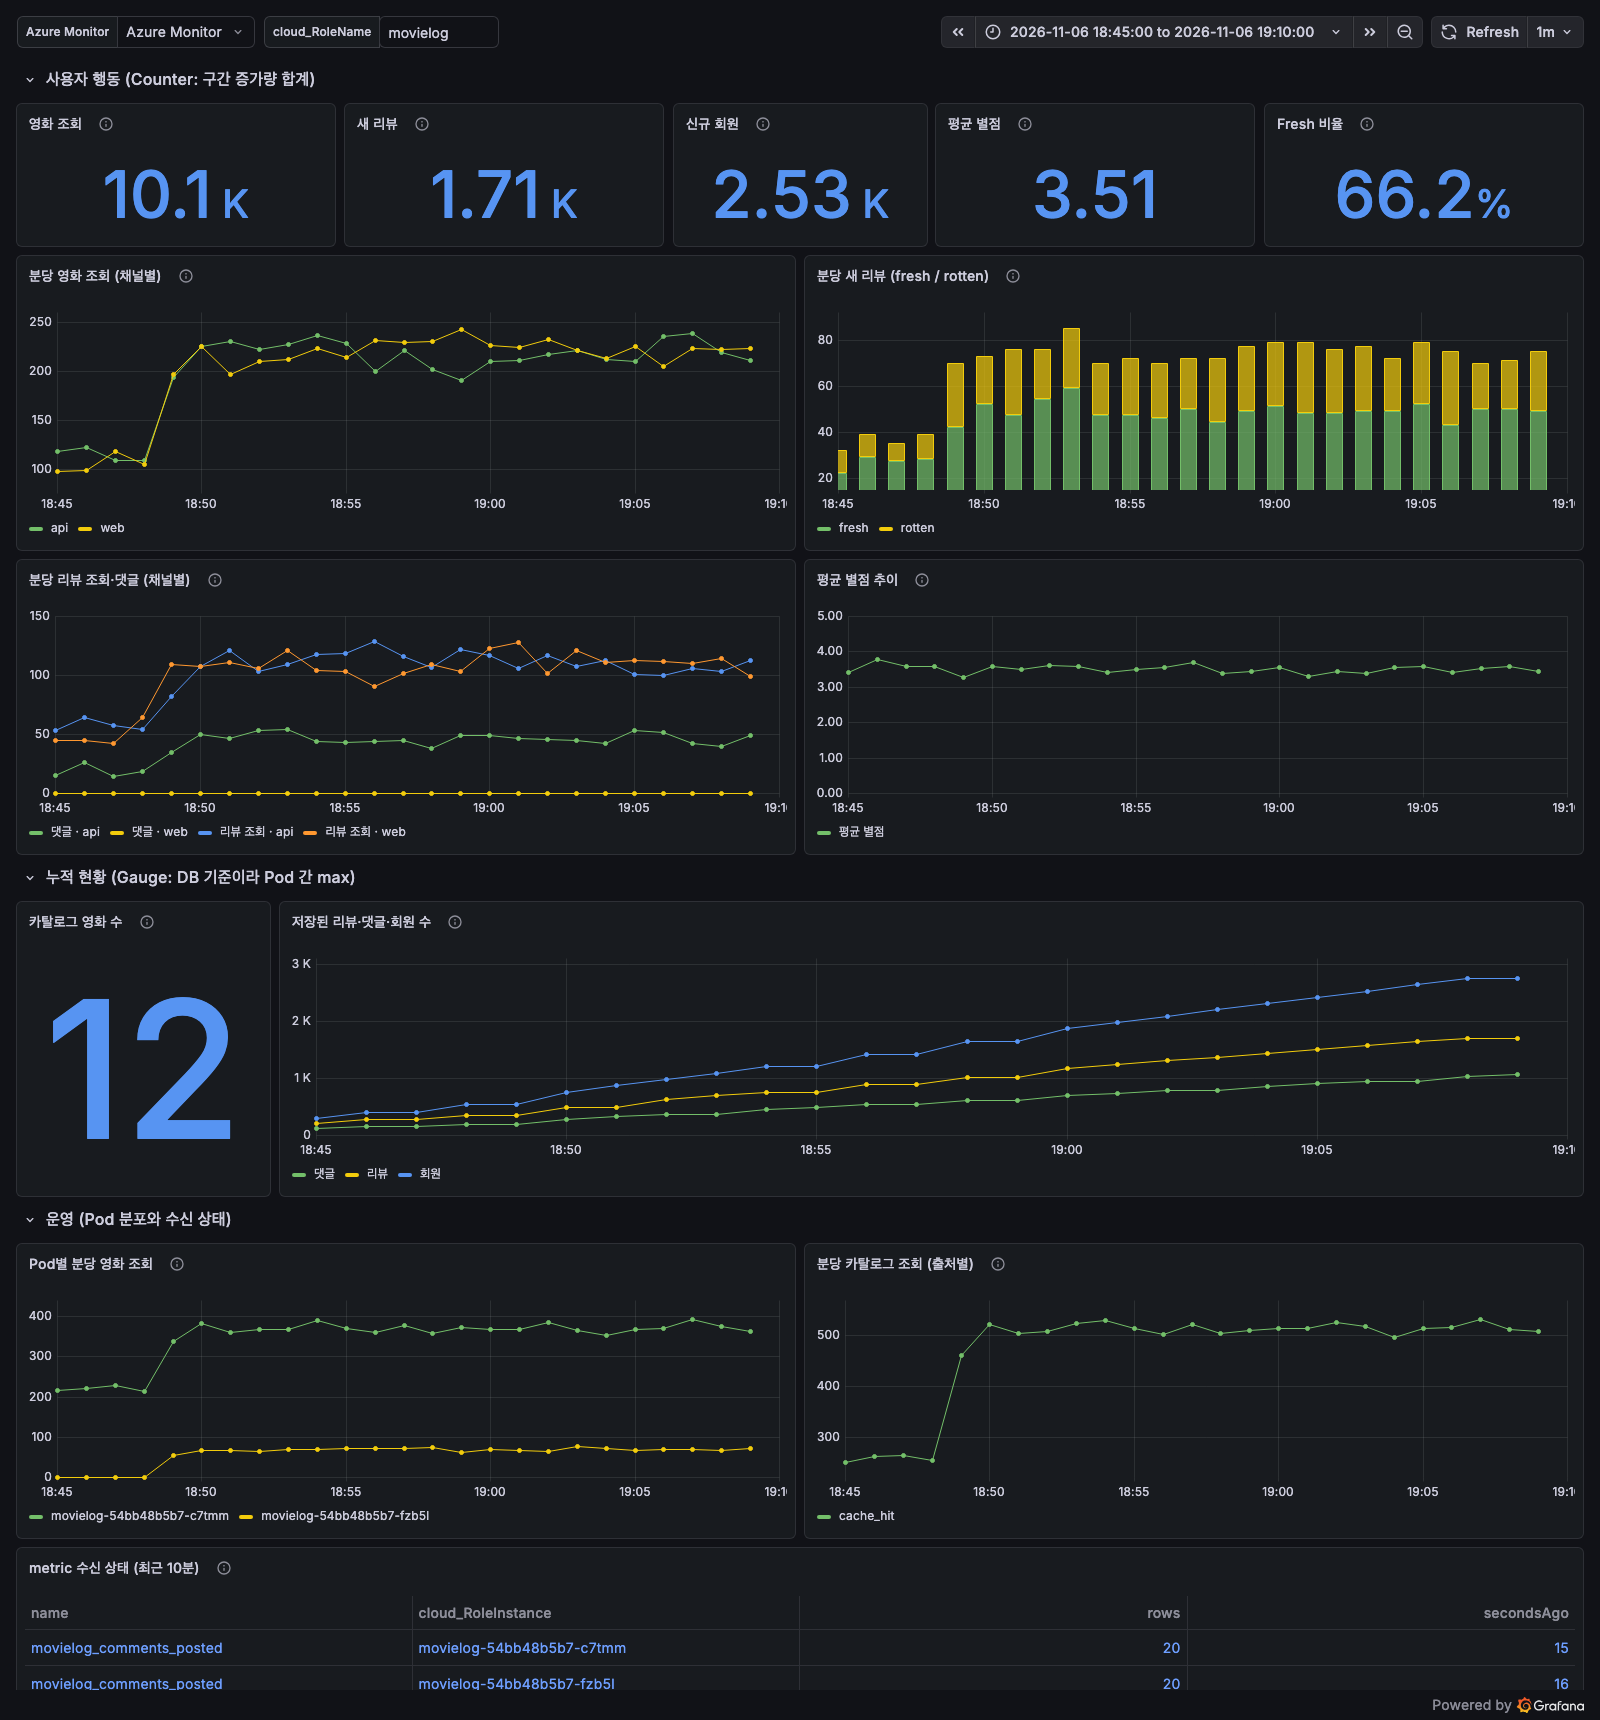
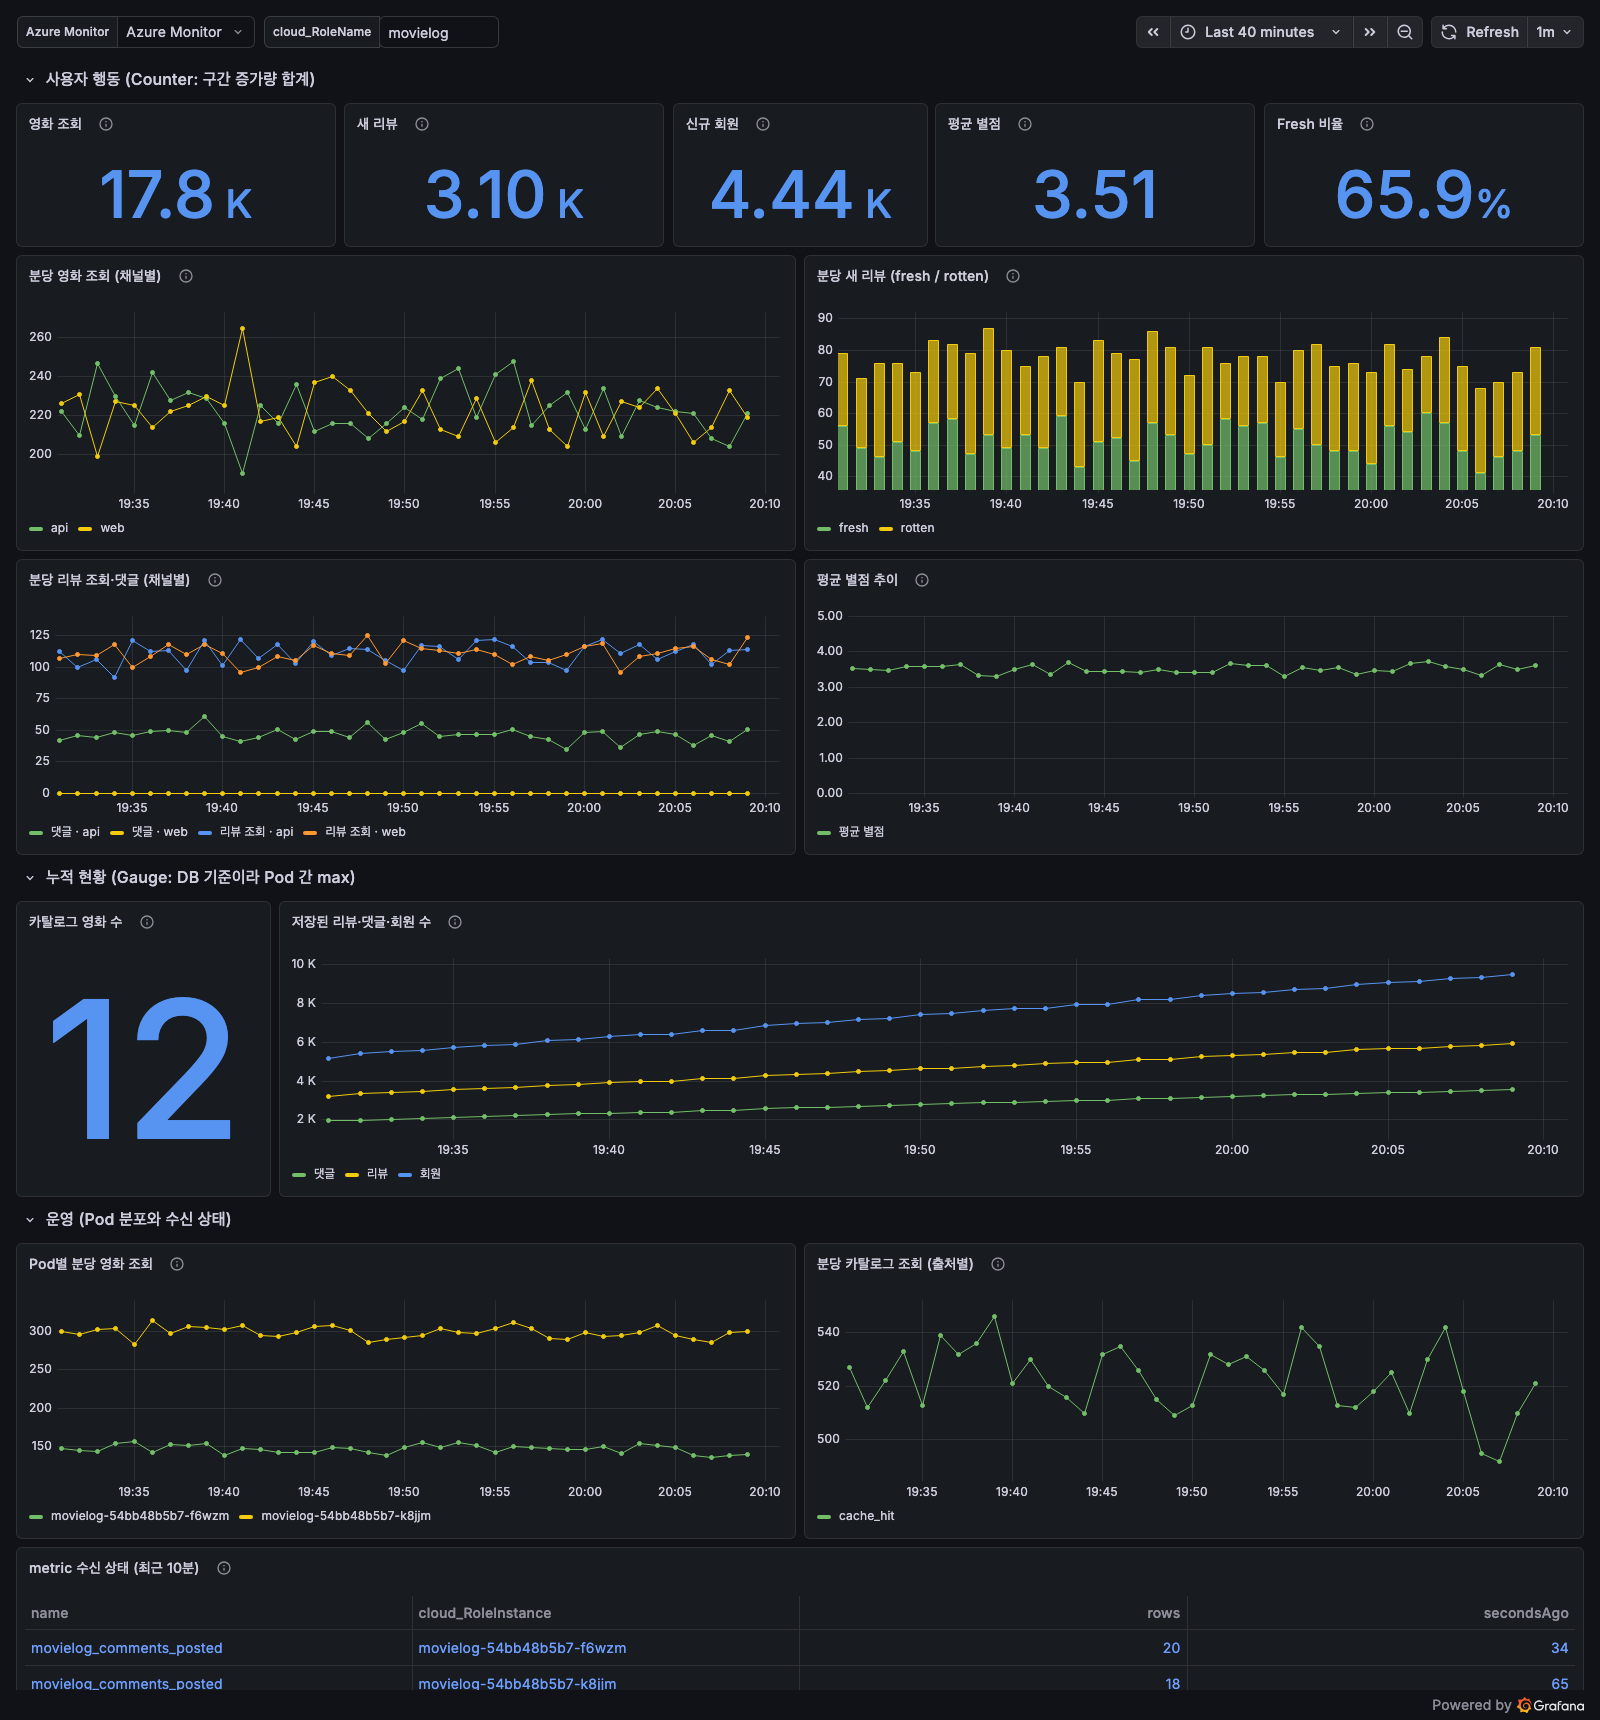
docs(monitor): 리뷰 1차 반영 - rollout 대기, 복귀 replica, token 범위, 미완성 bin 제외
- custom agent 전환 두 patch 사이와 뒤에 rollout status를 두고 Pod별 agent 로그를 확인
- kubectl replace 복귀 뒤 replicas를 2로 복원
- verify_panels.py 경로를 sample 루트 기준으로 수정
- capture.mjs가 Entra token을 Grafana origin 요청에만 붙이고 환경 변수 누락 시 종료 (실측에서 js.monitor.azure.com 요청 확인)
- 시계열 panel에서 채워지는 중인 현재 bin을 제외하고 대시보드 캡처 갱신

diff --git a/docs/services/azure-monitor/aks-spring-boot-micrometer-grafana/samples/movielog-app/agent/build_dashboard.py b/docs/services/azure-monitor/aks-spring-boot-micrometer-grafana/samples/movielog-app/agent/build_dashboard.py
@@ -15,6 +15,8 @@ import json
 DS = {"type": "grafana-azure-monitor-datasource", "uid": "${datasource}"}
 STEP = "max_of($__interval, 1m)"
 PER_MIN = f"({STEP} / 1m)"
+# The current bin is still filling, so drop it to avoid a false dip at the right edge.
+COMPLETE = f"| where timestamp < bin(now(), {STEP})\n"
 
 
 def base(metric):
@@ -108,13 +110,13 @@ def build(appinsights_id):
     lay.add("timeseries", "분당 영화 조회 (채널별)", "bin마다 증가량을 더한 뒤 분당 값으로 환산합니다.",
             base("movielog_movie_views")
             + "| extend channel = tostring(customDimensions.channel)\n"
-              f"| summarize perMin = sum(value) / {PER_MIN} by bin(timestamp, {STEP}), channel\n"
+              + COMPLETE + f"| summarize perMin = sum(value) / {PER_MIN} by bin(timestamp, {STEP}), channel\n"
               "| order by timestamp asc",
             "short", 0, 12, 8, "time_series", options=LINES, label="channel")
     lay.add("timeseries", "분당 새 리뷰 (fresh / rotten)", "verdict dimension으로 나눈 리뷰 작성량입니다.",
             base("movielog_reviews_posted")
             + "| extend verdict = tostring(customDimensions.verdict)\n"
-              f"| summarize perMin = sum(value) / {PER_MIN} by bin(timestamp, {STEP}), verdict\n"
+              + COMPLETE + f"| summarize perMin = sum(value) / {PER_MIN} by bin(timestamp, {STEP}), verdict\n"
               "| order by timestamp asc",
             "short", 12, 12, 8, "time_series", defaults={"custom": BARS}, options=LINES, label="verdict")
     lay.newline(8)
@@ -126,12 +128,12 @@ def build(appinsights_id):
             '| where name in ("movielog_review_views", "movielog_comments_posted")\n'
             '| extend series = strcat(iff(name == "movielog_review_views", "리뷰 조회", "댓글"), " · ",\n'
             "                         tostring(customDimensions.channel))\n"
-            f"| summarize perMin = sum(value) / {PER_MIN} by bin(timestamp, {STEP}), series\n"
+            + COMPLETE + f"| summarize perMin = sum(value) / {PER_MIN} by bin(timestamp, {STEP}), series\n"
             "| order by timestamp asc",
             "short", 0, 12, 8, "time_series", options=LINES, label="series")
     lay.add("timeseries", "평균 별점 추이", "bin마다 sum(valueSum) / sum(valueCount)로 가중 평균을 계산합니다.",
             base("movielog_review_rating")
-            + f"| summarize stars = sum(valueSum) / sum(valueCount) by bin(timestamp, {STEP})\n"
+            + COMPLETE + f"| summarize stars = sum(valueSum) / sum(valueCount) by bin(timestamp, {STEP})\n"
               "| order by timestamp asc",
             "none", 12, 12, 8, "time_series", defaults={"decimals": 2, "min": 0, "max": 5, "displayName": "평균 별점"},
             options=LINES)
@@ -149,7 +151,7 @@ def build(appinsights_id):
             '| where name in ("movielog_reviews_stored", "movielog_comments_stored", "movielog_members_stored")\n'
             '| extend series = case(name == "movielog_reviews_stored", "리뷰",\n'
             '                       name == "movielog_comments_stored", "댓글", "회원")\n'
-            f"| summarize stored = max(value) by bin(timestamp, {STEP}), series\n"
+            + COMPLETE + f"| summarize stored = max(value) by bin(timestamp, {STEP}), series\n"
             "| order by timestamp asc",
             "short", 4, 20, 8, "time_series", options=LINES, label="series")
     lay.newline(8)
@@ -157,13 +159,13 @@ def build(appinsights_id):
     lay.row("운영 (Pod 분포와 수신 상태)")
     lay.add("timeseries", "Pod별 분당 영화 조회", "cloud_RoleInstance로 나눠 트래픽이 한 Pod에 몰리는지 봅니다.",
             base("movielog_movie_views")
-            + f"| summarize perMin = sum(value) / {PER_MIN} by bin(timestamp, {STEP}), cloud_RoleInstance\n"
+            + COMPLETE + f"| summarize perMin = sum(value) / {PER_MIN} by bin(timestamp, {STEP}), cloud_RoleInstance\n"
               "| order by timestamp asc",
             "short", 0, 12, 8, "time_series", options=LINES, label="cloud_RoleInstance")
     lay.add("timeseries", "분당 카탈로그 조회 (출처별)", "TMDB 키 없이 seed 데이터만 쓰면 cache_hit만 나타납니다.",
             base("movielog_movie_catalog_lookups")
             + "| extend outcome = tostring(customDimensions.outcome)\n"
-              f"| summarize perMin = sum(value) / {PER_MIN} by bin(timestamp, {STEP}), outcome\n"
+              + COMPLETE + f"| summarize perMin = sum(value) / {PER_MIN} by bin(timestamp, {STEP}), outcome\n"
               "| order by timestamp asc",
             "short", 12, 12, 8, "time_series", options=LINES, label="outcome")
     lay.newline(8)

diff --git a/docs/services/azure-monitor/aks-spring-boot-micrometer-grafana/index.md b/docs/services/azure-monitor/aks-spring-boot-micrometer-grafana/index.md
@@ -241,14 +241,18 @@ kubectl create secret generic appinsights -n movielog \
 # 1) webhook이 이전 주입분을 걷어내도록 annotation만 먼저 끕니다.
 kubectl patch deployment movielog -n movielog --type merge -p \
   '{"spec":{"template":{"metadata":{"annotations":{"instrumentation.opentelemetry.io/inject-java":"false"}}}}}'
+kubectl rollout status deploy/movielog -n movielog
 # 2) 정리된 Deployment에 3.7.10 init image와 agent 환경 변수를 넣습니다.
 envsubst < k8s/21-agent-3.7.10.patch.yaml > /tmp/agent-patch.yaml
 kubectl patch deployment movielog -n movielog --type strategic --patch-file /tmp/agent-patch.yaml
-kubectl logs deploy/movielog -n movielog -c movielog | grep "Agent .* started"
+kubectl rollout status deploy/movielog -n movielog
+# Pod마다 시작한 agent 버전을 확인합니다.
+kubectl logs -n movielog -l app=movielog -c movielog --tail=-1 --prefix | grep "Agent .* started"
 ```
 
 ```text
-Application Insights Java Agent 3.7.10 started successfully (PID 1, JVM running for 4.568 s)
+[pod/movielog-54bb48b5b7-f6wzm/movielog] ... Application Insights Java Agent 3.7.10 started successfully
+[pod/movielog-54bb48b5b7-k8jjm/movielog] ... Application Insights Java Agent 3.7.10 started successfully
 ```
 
 ### 이미 주입된 Deployment를 한 번에 바꾸면 webhook이 agent 설정을 지웁니다 { #webhook-revert }
@@ -274,6 +278,8 @@ patch로 넣으면 유지됩니다. 처음부터 custom agent로 배포한다면
 
 ```bash
 envsubst < k8s/20-movielog.yaml | kubectl replace -f -
+# replace는 manifest의 replicas: 1로 되돌리므로 다시 늘립니다.
+kubectl scale deploy/movielog -n movielog --replicas=2
 ```
 
 ## agent에게는 probe → build → verify → look 순서로 대시보드를 시킵니다 { #agent-method }
@@ -402,6 +408,7 @@ customMetrics
 | where name in ("movielog_reviews_stored", "movielog_comments_stored", "movielog_members_stored")
 | extend series = case(name == "movielog_reviews_stored", "리뷰",
                        name == "movielog_comments_stored", "댓글", "회원")
+| where timestamp < bin(now(), max_of($__interval, 1m))   // 채워지는 중인 현재 bin 제외
 | summarize stored = max(value) by bin(timestamp, max_of($__interval, 1m)), series
 | order by timestamp asc
 ```
@@ -416,7 +423,7 @@ Grafana Viewer 이상 역할이 필요합니다.
 ```bash
 export GRAFANA_URL="$(az grafana show -g $RG -n <grafana-name> --query properties.endpoint -o tsv)"
 export GRAFANA_TOKEN="$(az account get-access-token --resource https://dashboard.azure.com --query accessToken -o tsv)"
-python3 verify_panels.py ../grafana/movielog-dashboard.json --appinsights-id "<app-insights-resource-id>"
+python3 agent/verify_panels.py grafana/movielog-dashboard.json --appinsights-id "<app-insights-resource-id>"
 ```
 
 첫 실행에서 한 panel이 실패했습니다.
@@ -447,11 +454,12 @@ agent는 이 이미지를 직접 보고 점검합니다. 첫 캡처에서는 다
 | 정상 건수가 빨간색 | stat 기본 threshold 80 | stat 색을 고정색으로 지정 |
 | legend가 `perMin api` | 값 column 이름이 series 이름 앞에 붙음 | `displayName`에 dimension label 사용 |
 | 아래쪽 panel이 비어 보임 | Grafana의 내부 scroll과 `fullPage` 캡처 불일치 | viewport를 dashboard 높이로 지정 |
+| 모든 분당 series가 오른쪽 끝에서 급락 | 아직 채워지는 현재 bin까지 그림 | 시계열 query에 `where timestamp < bin(now(), <bin>)` 추가 |
 
 수정 뒤 캡처가 이 문서 맨 위의 대시보드입니다. 캡처에서 다음도 확인했습니다.
 
-- Pod별 분당 영화 조회가 한 Pod에 약 370, 다른 Pod에 약 70으로 치우쳐
-  있습니다. 로그인 세션 때문에 Service에 `sessionAffinity: ClientIP`를 둔
+- Pod별 분당 영화 조회가 한 Pod에 약 300, 다른 Pod에 약 150으로 고르지
+  않습니다. 로그인 세션 때문에 Service에 `sessionAffinity: ClientIP`를 둔
   결과입니다. 처음 합성 사용자 3개일 때는 모든 요청이 한 Pod로 갔고, 6개로
   늘린 뒤 두 Pod에 나뉘었습니다.
 - `댓글 · web`이 0으로 평평합니다. 0으로 미리 등록한 counter이고 합성 사용자는

diff --git a/docs/services/azure-monitor/aks-spring-boot-micrometer-grafana/samples/movielog-app/agent/prompt.md b/docs/services/azure-monitor/aks-spring-boot-micrometer-grafana/samples/movielog-app/agent/prompt.md
@@ -46,6 +46,7 @@ MCP의 `amgmcp_query_resource_log`는 시간 범위를 보내지 않고 Grafana 
    - 정상 값이 경고색(빨강)으로 보이는가
    - legend가 "<column> <value>"처럼 읽기 어려운가
    - 시간축이 비어 보이거나 한 Pod에만 데이터가 몰리는가
+   - 모든 series가 오른쪽 끝에서 함께 떨어지는가(채워지는 중인 현재 bin)
    문제가 있으면 5단계로 돌아간다.
 9. report: 최종 panel 목록, 각 집계식의 근거가 된 probe 결과, 남은 한계를 보고한다.
 ```
@@ -61,4 +62,5 @@ MCP의 `amgmcp_query_resource_log`는 시간 범위를 보내지 않고 Grafana 
   한 panel이 400으로 실패했습니다.
 - 8단계는 query로는 보이지 않는 문제를 잡습니다. 실습에서 resource ID 변수에
   subscription ID가 노출됐고, stat 기본 threshold 때문에 정상 값이 빨갛게
-  보였습니다.
+  보였습니다. 리뷰 뒤 다시 캡처했을 때는 현재 bin 때문에 모든 분당 series가
+  오른쪽 끝에서 떨어지는 것을 찾았습니다.

diff --git a/docs/services/azure-monitor/aks-spring-boot-micrometer-grafana/samples/movielog-app/README.md b/docs/services/azure-monitor/aks-spring-boot-micrometer-grafana/samples/movielog-app/README.md
@@ -72,8 +72,11 @@ kubectl create secret generic appinsights -n movielog \
   --from-literal=connection-string="$APPLICATIONINSIGHTS_CONNECTION_STRING"
 kubectl patch deployment movielog -n movielog --type merge -p \
   '{"spec":{"template":{"metadata":{"annotations":{"instrumentation.opentelemetry.io/inject-java":"false"}}}}}'
+kubectl rollout status deploy/movielog -n movielog
 envsubst < k8s/21-agent-3.7.10.patch.yaml > /tmp/agent-patch.yaml
 kubectl patch deployment movielog -n movielog --type strategic --patch-file /tmp/agent-patch.yaml
+kubectl rollout status deploy/movielog -n movielog
+kubectl logs -n movielog -l app=movielog -c movielog --tail=-1 --prefix | grep "Agent .* started"
 ```
 
 처음 배포는 replica 1개로 시작합니다. `ddl-auto=update`가 schema를 만들 때 두
